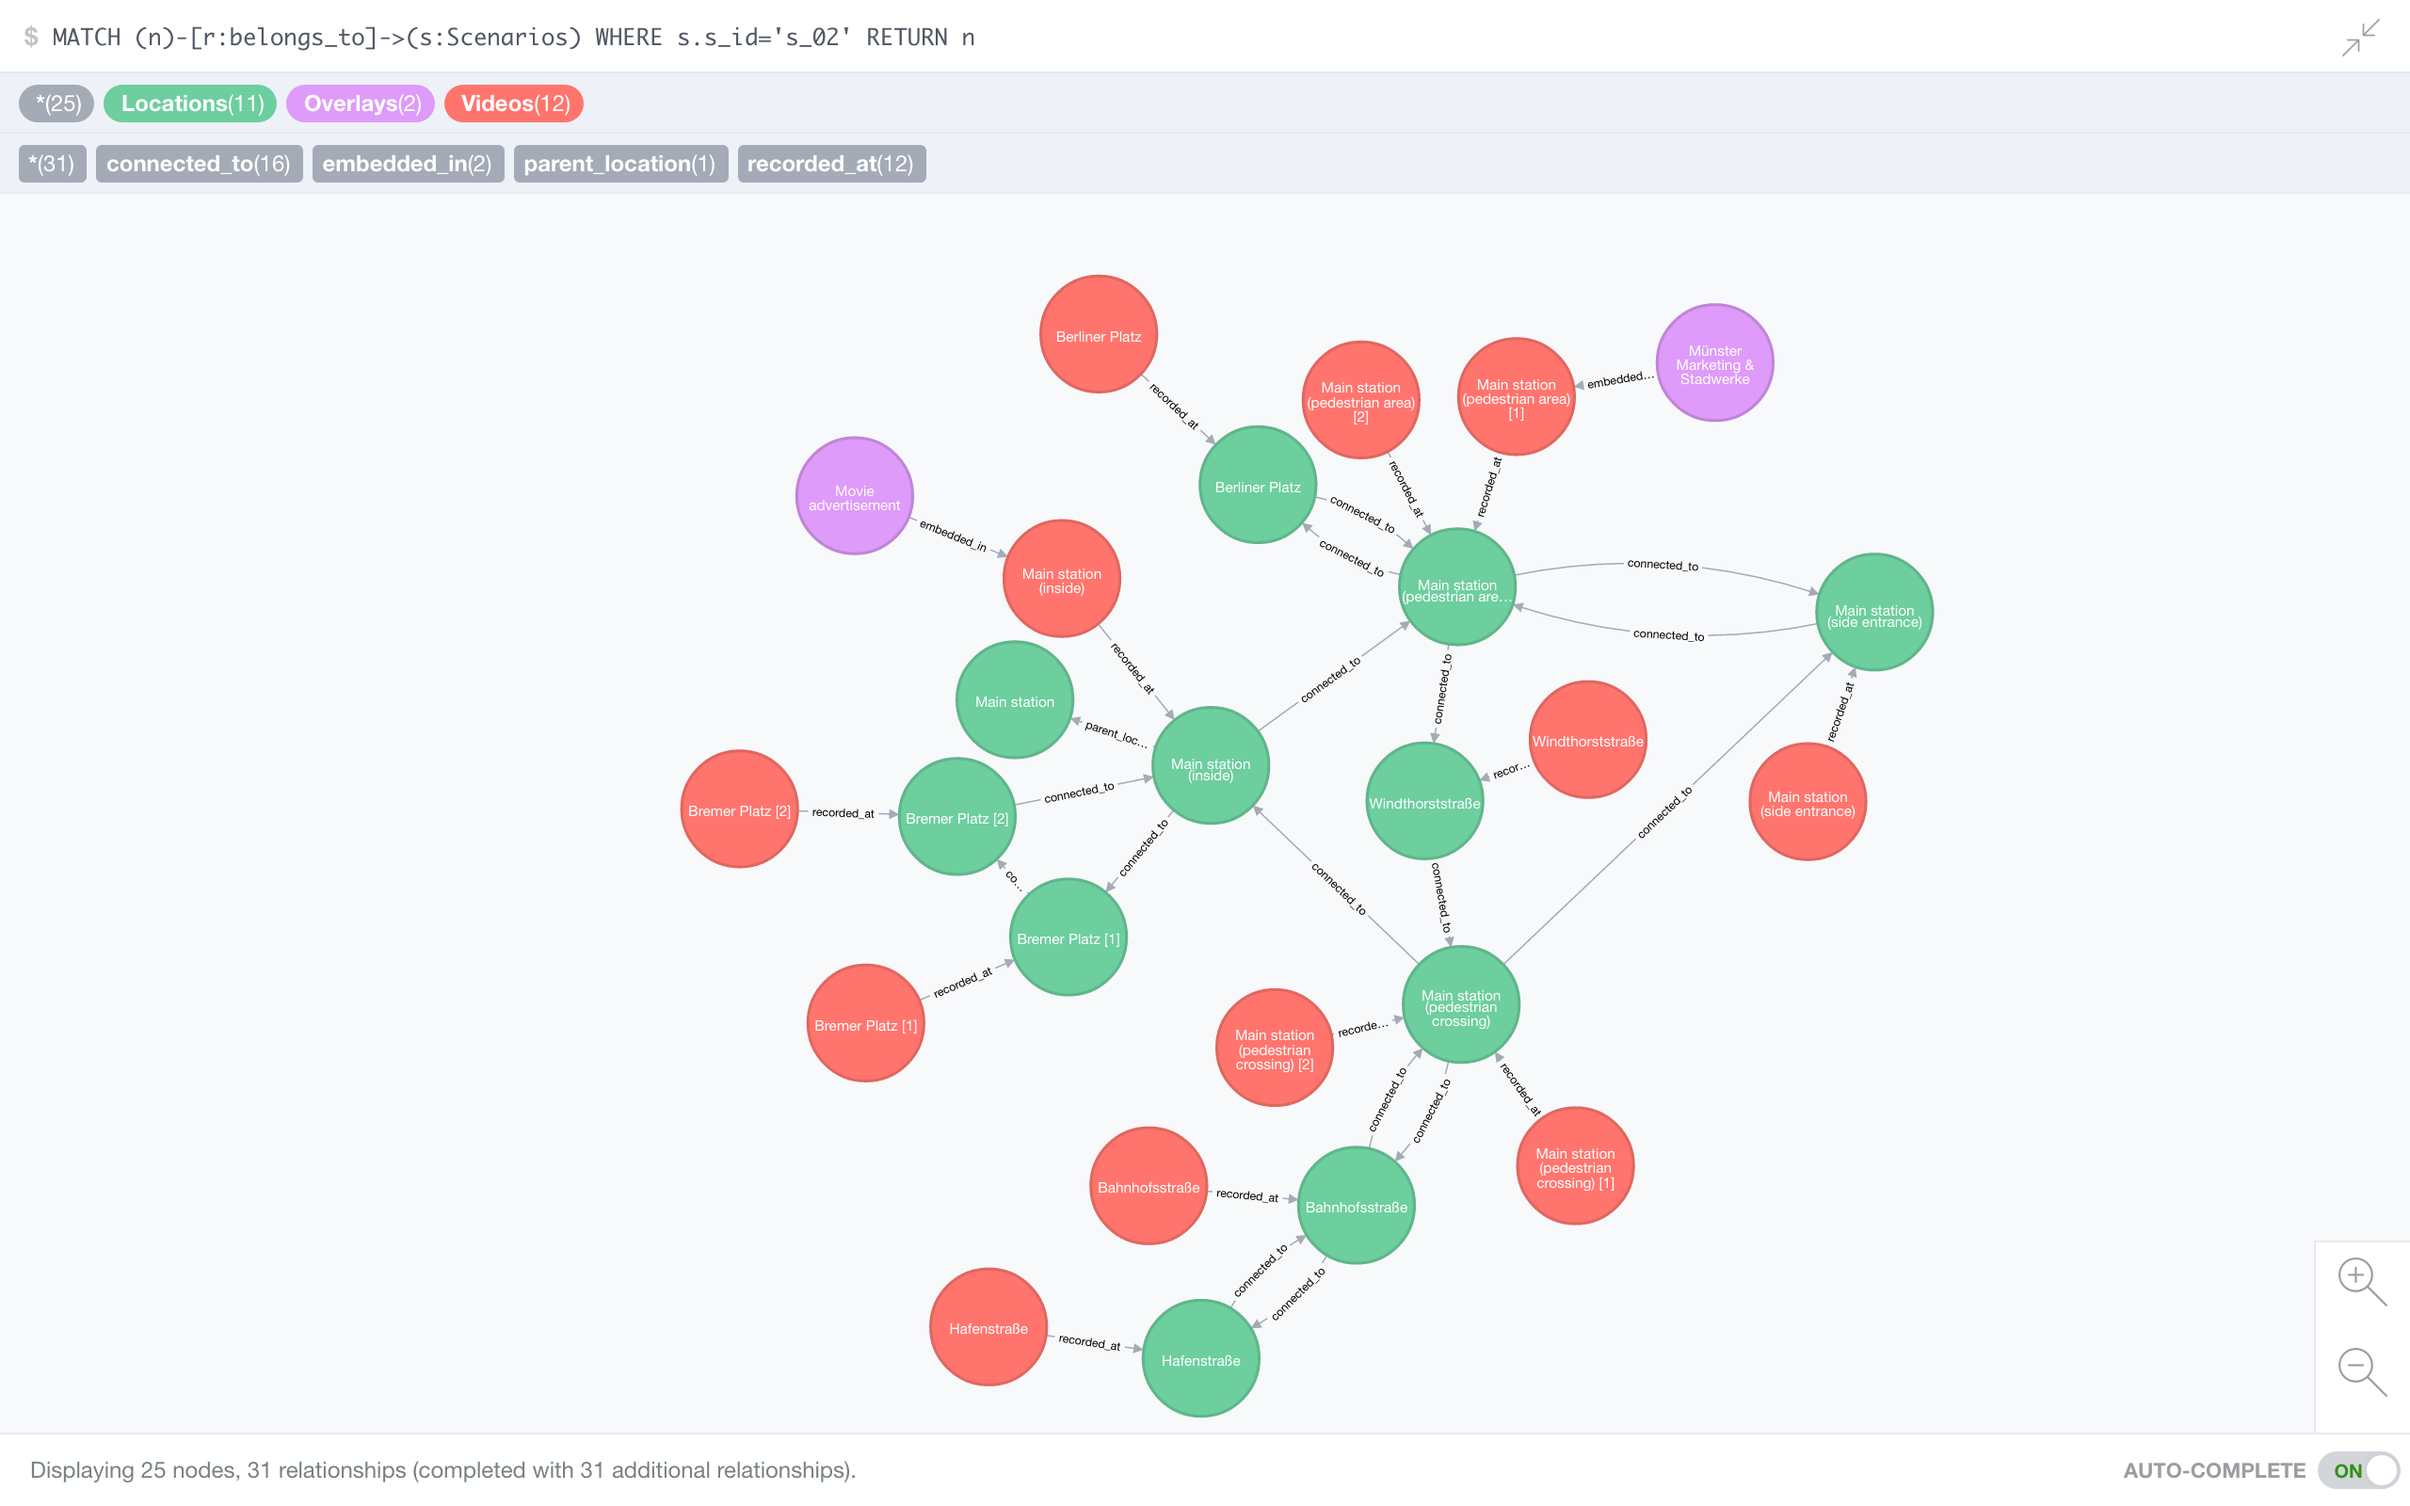
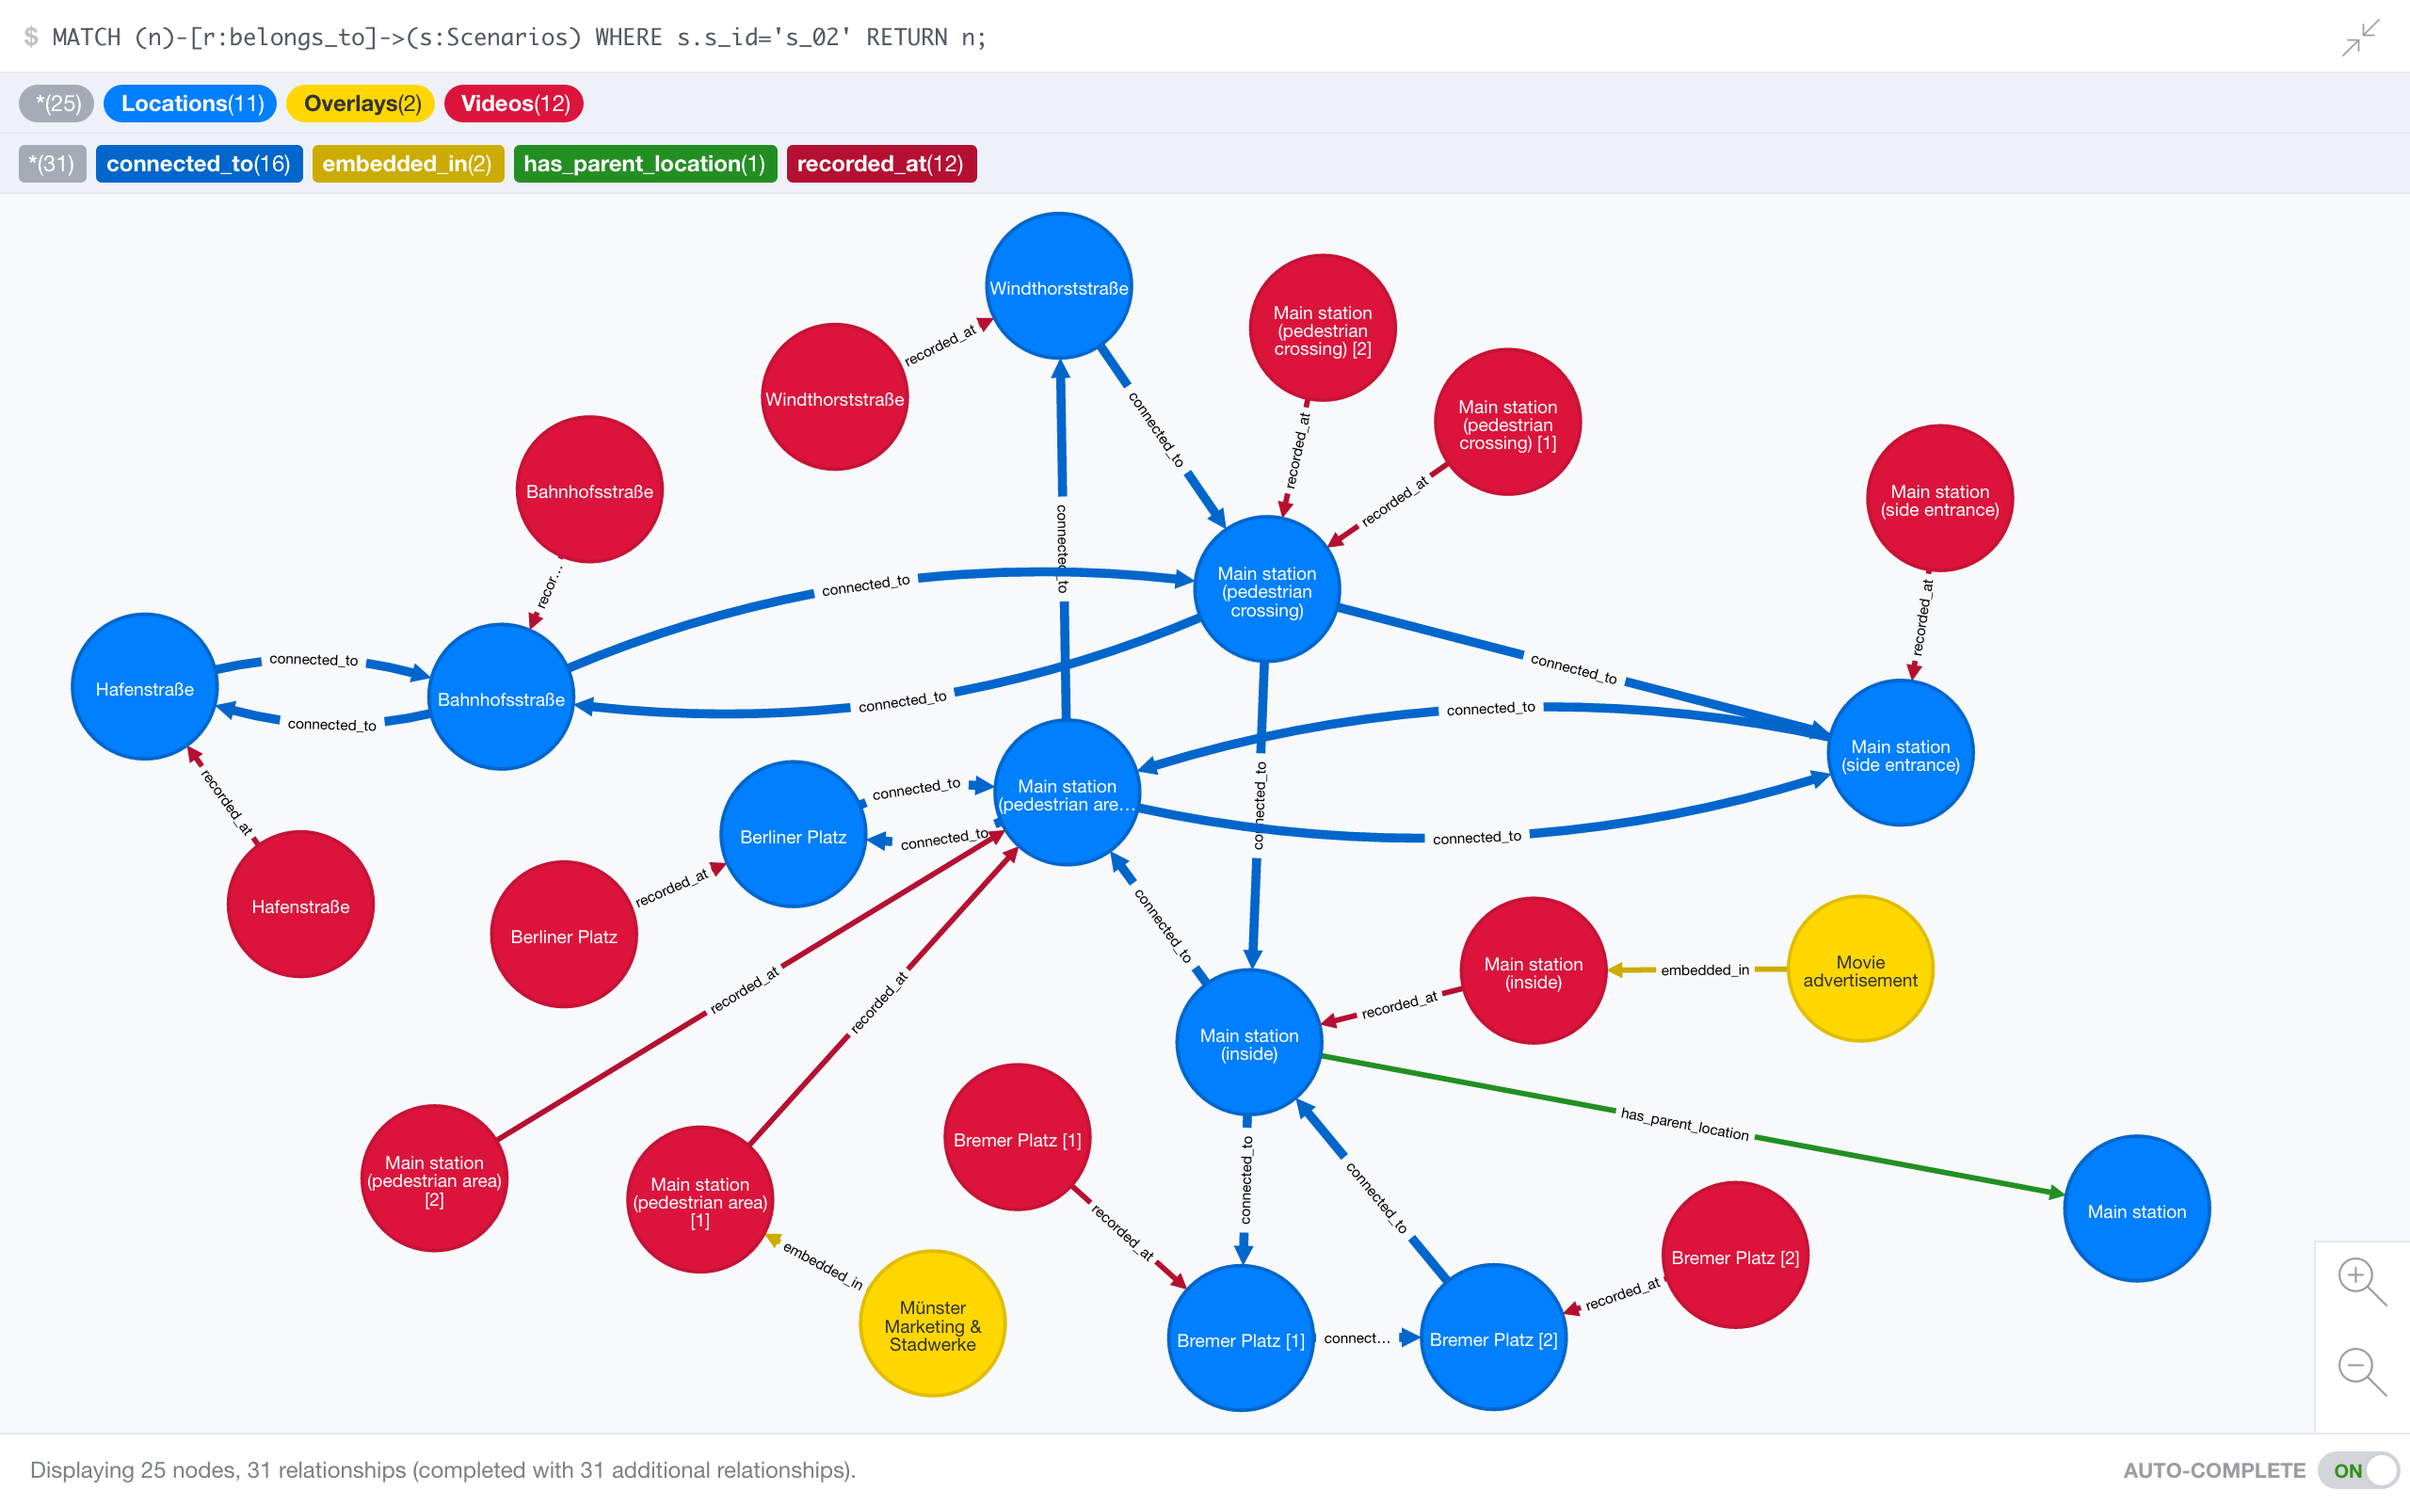
Changes

diff --git a/_layouts/default.html b/_layouts/default.html
@@ -39,7 +39,7 @@
                         <a href="{{ site.baseurl }}/install">Installation</a>
                         <a href="{{ site.baseurl }}/data">Data</a>
                         <a href="{{ site.baseurl }}/import">Import</a>
-                        <a href="{{ site.baseurl }}/extensions">Extensions</a>
+                        <a href="{{ site.baseurl }}/expansion">Expansion</a>
                         <a href="{{ site.baseurl }}/troubleshooting">Troubleshooting</a>
                     </nav>
                 </header>

diff --git a/data.md b/data.md
@@ -38,33 +38,57 @@ As it can be seen in the previous example graph, there are 4 main nodes (or enti
 
 ## 2.1. Scenarios
 
-TODO
+###### PROPERTIES
+
+* `scenario_id` (Integer): generated by Neo4j
+* `created` (Integer): generated with function `timestamp()`
+* `updated` (Integer): generated with function `timestamp()`
+* `s_id` (String): import-/export-id, will be automatically generated by `uuid()` inside apiControllers
+* `name` (String): name of the scenario
+* `description` (String): optional description of the scenario
+
+
+## 2.2. Locations
 
 ###### PROPERTIES
 
-* `scenario_id`:
-* `s_id`:
-* `created`:
-* `updated`:
-* `name`:
-* `description`:
-
-###### EXAMPLE
-
-```json
-
-```
-
-## 2.2. Locations
-PROPERTIES
+* `location_id` (Integer): generated by Neo4j
+* `created` (Integer): generated with function `timestamp()`
+* `updated` (Integer): generated with function `timestamp()`
+* `l_id` (String): import-/export-id, can be automatically generated by `uuid()` inside apiControllers
+* `name` (String): name of the location
+* `description` (String):  optional description of the location
+* `lat` (Float): Latitude value of the location
+* `lng` (Float): Longitude value of the location
+* `location_type` (String, options: `indoor`, `outdoor`, `abstract`): type of the location
 
 
 ## 2.3. Videos
-PROPERTIES
+
+###### PROPERTIES
+
+* `video_id` (Integer): generated by Neo4j
+* `created` (Integer): generated with function `timestamp()`
+* `updated` (Integer): generated with function `timestamp()`
+* `v_id` (String): import-/export-id, can be automatically generated by `uuid()` inside apiControllers
+* `name` (String): name of the video
+* `description` (String): optional description of the video
+* `url` (String): url of the video
+* `recorded` (String): optional timestamp, when the video was recorded
 
 
 ## 2.4. Overlays
-PROPERTIES
+
+###### PROPERTIES
+
+* `overlay_id`(Integer): generated by Neo4j
+* `created` (Integer): generated with function `timestamp()`
+* `updated` (Integer): generated with function `timestamp()`
+* `o_id` (String): import-/export-id, can be automatically generated by `uuid()` inside apiControllers
+* `name` (String): name of the overlay
+* `description` (String): optional description of the overlay
+* `category` (String, options: `website`, `picture`, `video`): type of the overlay
+* `url` (String): url of the overlay
 
 ***
 
@@ -83,16 +107,11 @@ The relationship `-[BELONGS_TO]->` is used for filtering the data for a specific
 
 <span class="label label-location">i/o:Location</span> *(1)* `-[CONNECTED_TO]->` *(1..n)* <span class="label label-location">i/o:Location</span><br>
 
-This relationship builds the navigation between two <span class="label label-location">i/o:Locations</span>.
+This relationship builds a path between two <span class="label label-location">i/o:Locations</span>, which is responsible for the main navigation. If your
 
+###### PROPERTIES
 
-### 3.2.1.
-
-TODO
-
-### 3.2.2.
-
-TODO
+* `i_id` (String): optional intent-ID to reference to all related intents inside a Postgres table (only required for for the [voice-control-extension]({{ site.baseurl }}/expansion/#41-voice-control-system))
 
 
 ## 3.3. HAS_PARENT_LOCATION
@@ -131,17 +150,37 @@ The parent location approach also allows the normal usage of `-[CONNECTED_TO]->`
 
 <span class="label label-video">Video</span> *(1)* `-[RECORDED_AT]->` *(1)* <span class="label label-location">i/o:Location</span><br>
 
-This relationship is used to attach one (or more) video(s) to a location, where they have been recorded. The property `preferred: {value}` with the options: `true`, `false` and the default value `true`, becomes necessary if you have multiple videos, which were recorded at two different times (for example: one at daylight, one at nightlight). To specify, which video should be played first in the IVE set the property `preferred` to `true` for your starting video and for all other videos to `false`.
+This relationship is used to attach one (or more) video(s) to a location, where they have been recorded.
+
+###### PROPERTIES
+
+* `preferred` (Boolean): the default value is `true` and becomes necessary, if you have multiple videos, which were recorded at two different times (for example: one at daylight, one at nightlight). To specify, which video should be played first in the IVE, set this property to `true` for your starting video and for all other videos to `false`.
+
 
 ## 3.5. EMBEDDED_IN
 
 <span class="label label-overlay">Overlay</span> *(1)* `-[EMBEDDED_IN]->` *(1..n)* <span class="label label-video">Video</span><br>
 
+This relationship is used to embed an overlay into a video. Its spatial orientation and position inside the video differs from video to video. Therefore these parameters are stored inside this relationship, so that an overlay can be used multiple times.
+
+###### PROPERTIES
+
+* `w` (Float):
+* `h` (Float):
+* `d` (Float):
+* `x` (Float):
+* `y` (Float):
+* `z` (Float):
+* `rx` (Float):
+* `ry` (Float):
+* `rz` (Float):
+* `display` (Boolean):
+
 ***
 
 # 4. Available scenarios
 
-TODO (add new screenshots)
+If you want to test the IVE and don't want to create own data, you can [import]({{ site.baseurl }}/import) the data of the following scenarios. All required data are stored in CSV files in the folder `data/*`. Use the [setup-script]({{ site.baseurl }}/install/#121-automatic-import-recommended) to automatically import all files. 
 
 ## 4.1. First scenario
 

diff --git a/install.md b/install.md
@@ -9,7 +9,8 @@ permalink: /install/
     2. [Import an existing graph](#import-an-existing-graph)
         1. [Automatic import](#automatic-import-recommended)
         2. [Own import](#own-import-not-recommended)
-    3. [View your imported data](#view-your-imported-data)
+    3. [Graph style sheet](#graph-style-sheet)
+    4. [View your imported data](#view-your-imported-data)
 2. [IVE](#ive)
     1. [Git/GitHub](#gitgithub)
     2. [GitHub repository](#github-repository)
@@ -99,9 +100,37 @@ CREATE CONSTRAINT ON (overlay:Overlays) ASSERT overlay.o_id IS UNIQUE;
 
 * After this step, you are able to import the data from CSV files. You can run all Cypher commands (**one by one**) from the file `IVE/queries/setup/` folder. The setup-script contains all of those commands and can also do this job for you.
 
-#### 1.3. View your imported data
+#### 1.3. Graph style sheet
 
-* Check if your data has been imported with the Cypher query:
+With a **graph-style-sheet** for the Neo4j Browser, you can customize the highlighting of your nodes and relationships. Neo4j automatically visualizes the nodes with different colors for different labels, but if you want to use the same color coding as the IVE, you can find a `grass.css` file in the repository. Drag and drop it, like this:
+
+[<img src="{{ site.baseurl }}/images/grass_import.png" alt="GRASS" class="picture" />]({{ site.baseurl }}/)
+
+If you need more information, please checkout the Neo4j manual at  [https://neo4j.com/developer/guide-neo4j-browser/#_advanced_styling](https://neo4j.com/developer/guide-neo4j-browser/#_advanced_styling).
+
+(The following styles are for future implementations and currently not supported by the IVE or Neo4j [https://github.com/neo4j/neo4j-browser/issues/131](https://github.com/neo4j/neo4j-browser/issues/131))
+
+```css
+node.Users {
+  color: #FF8000;
+  border-color: #DE6F00;
+  text-color-internal: #FFFFFF;
+  caption: '{name}';
+  diameter: 80px;
+}
+
+node.Locations[location_type="abstract"] {
+  color: #32CD32;
+  border-color: #2CB32C;
+  text-color-internal: #FFFFFF;
+  caption: '{name}';
+  diameter: 80px;
+}
+```
+
+#### 1.4. View your imported data
+
+* Check if your data has been imported correctly with the following cypher query:
 
 ```
 MATCH (n) RETURN n;

diff --git a/expansion.md b/expansion.md
@@ -1,6 +1,6 @@
 ---
 layout: page
-permalink: /extensions/
+permalink: /expansion/
 ---
 
 #### Overview
@@ -9,7 +9,8 @@ permalink: /extensions/
     2. [Extending relationships](#extending-relationships)
 2. [REST-API](#rest-api)
 3. [Websockets](#websockets)
-4. [Voice control system](#voice-control-system)
+4. [Extensions](#extensions)
+    1. [Voice control system](#voice-control-system)
 
 ***
 
@@ -29,17 +30,29 @@ All relationships can be weighted. In the example graph the property `weight` in
 
 # 2. REST-API
 
-TODO
+* Base-url: `/api/*`
+* Authentication: `{ }`
+
+| Method | Endpoint | Body | Description |
+|--------|----------|------|-------------|
+| **POST** | `/login` | `{ "": "" }` | |
 
 ***
 
 # 3. Websockets
 
-TODO
+| Endpoint | Message | Description |
+|----------|---------|-------------|
+| `/set/scenario` | `{ "scenario_id": 1 }` | Set the scenario inside the frontend application |
+| `/set/location` | `{ "location_id": 2 }` | Set the (start-) location inside the frontend application |
+| `/set/video` | `{ "video_id": 3 }` | Set (change) the current video inside the frontend application |
+| `/toggle/overlay` | `{ "overlay_id": 4 }` | Show or hide the current overlay inside the frontend application |
 
 ***
 
-# 4. Voice control system
+# 4. Extensions
+
+## 4.1. Voice control system
 
 The IVE was extended by **Nicholas Schiestel** <a href="https://github.com/nicho90" target="_blank" class="link"><i class="fa fa-github-alt" aria-hidden="true"></i></a> <a href="https://twitter.com/Nicho_S_90" target="_blank" class="link"><i class="fa fa-twitter" aria-hidden="true"></i></a> with a voice control system as part of his bachelor thesis.
 The following image shows the basic architecture of the implementation.

diff --git a/import.md b/import.md
@@ -9,12 +9,15 @@ permalink: /import/
     2. [CSV files](#csv-files)
     3. [REST-API](#rest-api)
     4. [Cypher queries](#cypher-queries)
+
+<!--
 2. [Data structure](#data-structure)
     1. [Scenarios](#scenarios)
     2. [Locations](#locations)
     3. [Videos](#videos)
     4. [Overlays](#overlays)
     5. [Relationships](#relationships)
+-->
 
 ***
 
@@ -46,7 +49,7 @@ It is not recommended to use it in this way, because the IVE-Backend provides a 
 This option is on the database-level and a direct way to your data. It is also not recommended, because the IVE-Backend provides a much better user-interface, where you can easily create new entries or edit existing ones. But if you need to check your data, as well as the graph for validating, the built-in neo4j-shell is the best way to do this.
 
 
-# 2. Data structure
+<!--# 2. Data structure
 
 ## 2.1. Scenarios
 
@@ -134,7 +137,7 @@ Example:
 
 
 
-<!-- TODO:
+ TODO:
 	Ground floor (2nd atrium 2)	/media/videos/geo_1/geo1-erdgeschoss-zweites-atrium-2	Erdgeschoss (2. Atrium 2)	Ground floor (2nd atrium 2)		s_3
 
 	Ground floor (lecture room)	/media/videos/geo_1/geo1-erdgeschoss-hoersaal	Erdgeschoss (Hörsaal)	Ground floor (lecture room)		s_3
@@ -146,7 +149,6 @@ Example:
 	2nd floor (stairwell)	/media/videos/geo_1/geo1-zweiter-stock-treppe	2. Stock (Treppenhaus)	2nd floor (stairwell)		s_3
 
 	4th floor (stairwell)	/media/videos/geo_1/geo1-vierter-stock-treppe	4. Stock (Treppenhaus)	4th floor (stairwell)		s_3
--->
 
 ### API
 
@@ -184,4 +186,4 @@ Response `201`:
     "recorded": null,
     "s_id": "s_3"
 }
-```
+```-->
